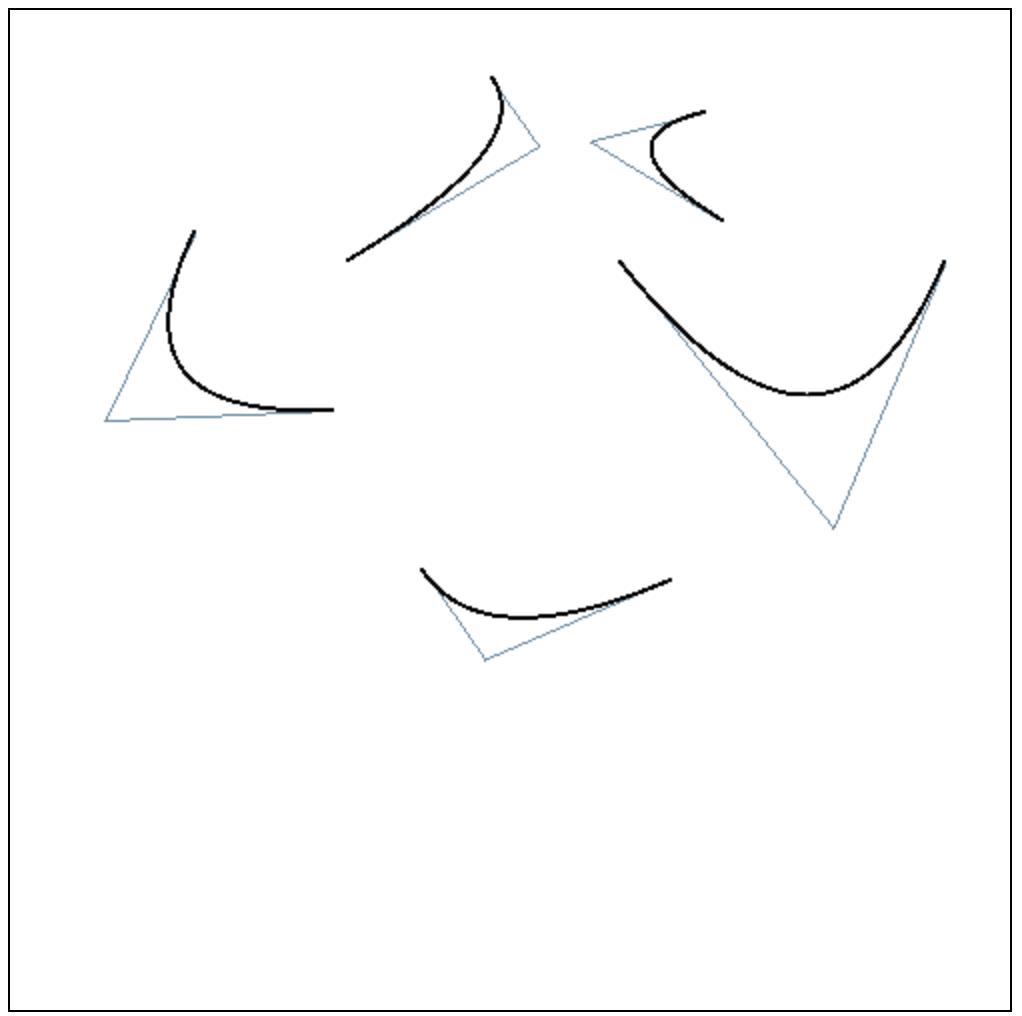
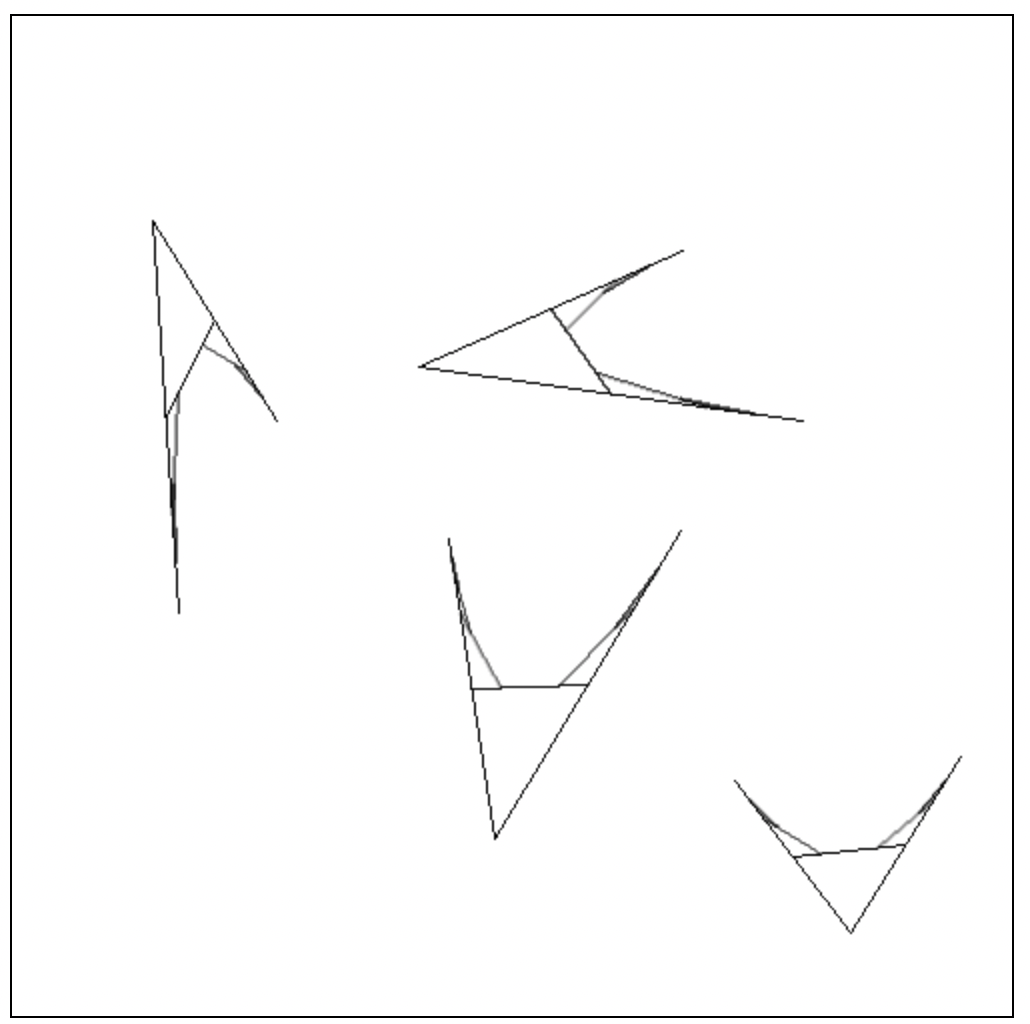
fix lab6

diff --git a/hw6/hw6.js b/hw6/hw6.js
@@ -1,97 +1,129 @@
 
-        let canvas = document.getElementById("canv");
-        let context = canvas.getContext("2d");
-        let formula = {};
-
-        function drawLine(context, x0, y0, x1, y1) {
-            context.fillStyle = "#5a89a4";
-            let x = x0;
-            let y = y0;
-            let epsilon = 0;
-            let dx = x1 - x0;
-            let dy = y1 - y0;
-            let sign_x = Math.sign(dx);
-            let sign_y = Math.sign(dy);
-            if (Math.abs(dx) > Math.abs(dy)) {
-                while (x != x1) {
-                    epsilon += 2 * dy;
-                    if (Math.abs(epsilon) >= Math.abs(dx)) {
-                        y += sign_y;
-                        epsilon -= 2 * sign_x * sign_y * dx;
-                    }
-                    context.fillRect(x, y, 1, 1);
-                    x += sign_x;
-                }
+        function drawLine(ctx, x0, y0, x1, y1) {
+            var dy = Math.abs(y1-y0);
+            var dx = Math.abs(x1-x0);
+            var dmax = Math.max(dx, dy);
+            var dmin = Math.min(dx, dy);
+            var xdir = 1;
+            if (x1<x0) xdir = -1;	
+            var ydir = 1;
+            if (y1<y0) ydir = -1;
+            var eps = 0;
+            var s = 1;
+            var k=2*dmin;
+            if (dy<=dx) {
+                var y = y0;
+                for (var x=x0; x*xdir<=x1*xdir; x+=xdir) {
+                    ctx.fillRect(x*s, y*s, 1*s, 1*s);
+                    eps = eps+k;
+                    if (eps>dmax) {
+                        y+=ydir;
+                        eps = eps - 2*dmax;
+                    }	
+                } 
             } else {
-                while (y != y1) {
-                    epsilon += 2 * dx;
-                    if (Math.abs(epsilon) >= Math.abs(dy)) {
-                        epsilon -= 2 * sign_x * sign_y * dy;
-                        x += sign_x;
-                    }
-                    context.fillRect(x, y, 1, 1);
-                    y += sign_y;
-                }
+                var x = x0;
+                for (var y=y0; y*ydir<=y1*ydir; y+=ydir) {
+                    ctx.fillRect(x*s, y*s, 1*s, 1*s);
+                    eps = eps+k;
+                    if (eps>dmax) {
+                        x+=xdir;
+                        eps = eps - 2*dmax;
+                    }	
+                } 
+            }		
+        }
+        
+        function distance(P0, P1, P2){
+            var k = (P2[1] - P0[1])/(P2[0] - P0[0]);
+            console.log('Coef', k);
+            var b = -1*k*P0[0] + P0[1];
+            d = Math.abs(-k*P1[0] + P1[1] -1*b)/Math.sqrt(k*k + 1);
+            console.log('Distance ',d);
+            return d
+        }
+
+        function Beze(P0, P1, P2){
+            if(distance(P0, P1, P2) > 1){
+                P0_ = []; // x0' y0'
+                P0_[0] = 0.5*P0[0] + 0.5*P1[0];
+                P0_[1] = 0.5*P0[1] + 0.5*P1[1];
+                
+                P1_ = []; // x1' y1'
+                P1_[0] = 0.5*P1[0] + 0.5*P2[0];
+                P1_[1] = 0.5*P1[1] + 0.5*P2[1];
+
+                P0__ = []; // x0" y0"
+                P0__[0] = 0.5*P0_[0] + 0.5*P1_[0];
+                P0__[1] = 0.5*P0_[1] + 0.5*P1_[1];
+                drawLine(ctx, P0_[0], P0_[1], P1_[0], P1_[1]);
+                Beze(P0, P0_, P0__);
+                 
+            }else{
+                drawLine(ctx, P0_[0], P0_[1], P1_[0], P1_[1]);
             }
         }
-        formula.getPointOnCurve = function (shift, points) {
-            if (points.length == 2) {
-                return this.getPointOnLine(shift, points);
+
+        function Beze2(P0, P1, P2){
+            if(distance(P0, P1, P2) > 1){
+                P0_ = []; // x0' y0'
+                P0_[0] = 0.5*P0[0] + 0.5*P1[0];
+                P0_[1] = 0.5*P0[1] + 0.5*P1[1];
+                
+                P1_ = []; // x1' y1'
+                P1_[0] = 0.5*P1[0] + 0.5*P2[0];
+                P1_[1] = 0.5*P1[1] + 0.5*P2[1];
+
+                P0__ = []; // x0" y0"
+                P0__[0] = 0.5*P0_[0] + 0.5*P1_[0];
+                P0__[1] = 0.5*P0_[1] + 0.5*P1_[1];
+                drawLine(ctx, P0_[0], P0_[1], P1_[0], P1_[1]);
+                Beze2(P0__, P1_, P2);
+                 
+            }else{
+                drawLine(ctx, P0_[0], P0_[1], P1_[0], P1_[1]);
             }
-            let pointsPP = [];
-            for (var i = 1; i < points.length; i++) {
-                pointsPP.push(this.getPointOnLine(shift, [points[i - 1], points[i]]));
-            }
-            return this.getPointOnCurve(shift, pointsPP);
-        };
-        formula.getPointOnLine = function (shift, points) {
-            return [(points[1][0] - points[0][0]) * (shift / 100) + points[0][0],
-            (points[1][1] - points[0][1]) * (shift / 100) + points[0][1]];
-        };
-        let state = 0;
-        let shift = 0;
-        let step = 1;
-        let points = [[,], [,], [,]];
-        canvas.addEventListener("click", function (event) {
-            
-            if (state === 0) {
-                points[0][0] = event.offsetX
-                points[0][1] = event.offsetY
-                state = 1
-            } else if (state === 1) {
-                points[1][0] = event.offsetX
-                points[1][1] = event.offsetY
-                drawLine(context, points[0][0], points[0][1], points[1][0], points[1][1])
-                state = 2
-            } else if (state === 2) {
-                points[2][0] = event.offsetX
-                points[2][1] = event.offsetY
-                drawLine(context, points[1][0], points[1][1], points[2][0], points[2][1])
-                state = 3
-            } else if (state === 3) {
-                var timer = setInterval(function () {
-                    context.moveTo(points[0][0], points[0][1]);
-                    if (shift > 100) {
-                        shift = 100;
-                    }
-                    for (var i = 0; i <= shift; i += step) {
-                        var coord = formula.getPointOnCurve(i, points);
-                        context.lineTo(coord[0], coord[1]);
-                    }
-                    context.stroke();
-                    if (shift <= 100) {
-                        shift += step;
-                    }
-                }, 25)
-                state = 4
-            } else if (state === 4){
-                state = 5
-            }
-            if (state === 5){
-                state = 0
-                points = [[,], [,], [,]]
-            }
-            console.log(state);
-            console.log(points);
-            
+        }
+
+        var canvas = document.getElementById("canv");
+        var ctx = canvas.getContext("2d");
+    
+        var state = 0;
+        var points = [];
+        var counter = 0;
+
+    
+        canvas.addEventListener("click", function(event){
+                if (state == 0) {
+                    points[counter] = [event.offsetX, event.offsetY];
+                    state = 1;
+
+                } else if (state == 1) {
+                    points[counter] = [event.offsetX, event.offsetY];
+                    drawLine(ctx, points[0][0], points[0][1], points[1][0], points[1][1]);
+                    state = 2;
+
+                } else if (state == 2) {
+                    points[counter] = [event.offsetX, event.offsetY];
+                    drawLine(ctx, points[1][0], points[1][1], points[2][0], points[2][1]);
+                    state = -1;
+
+                }else if(state == -1){
+                    P0 = points[0];
+                    P1 = points[1];
+                    P2 = points[2];
+                    state = -2;
+
+                    Beze(P0, P1, P2);
+                    Beze2(P0, P1, P2);
+                }else if(state == -2){
+                    points = [];
+                    state = 0;
+                    counter = -1;
+                }
+                console.log(state);
+                console.log(points);
+                console.log(counter);
+                counter += 1;
+    
         });
